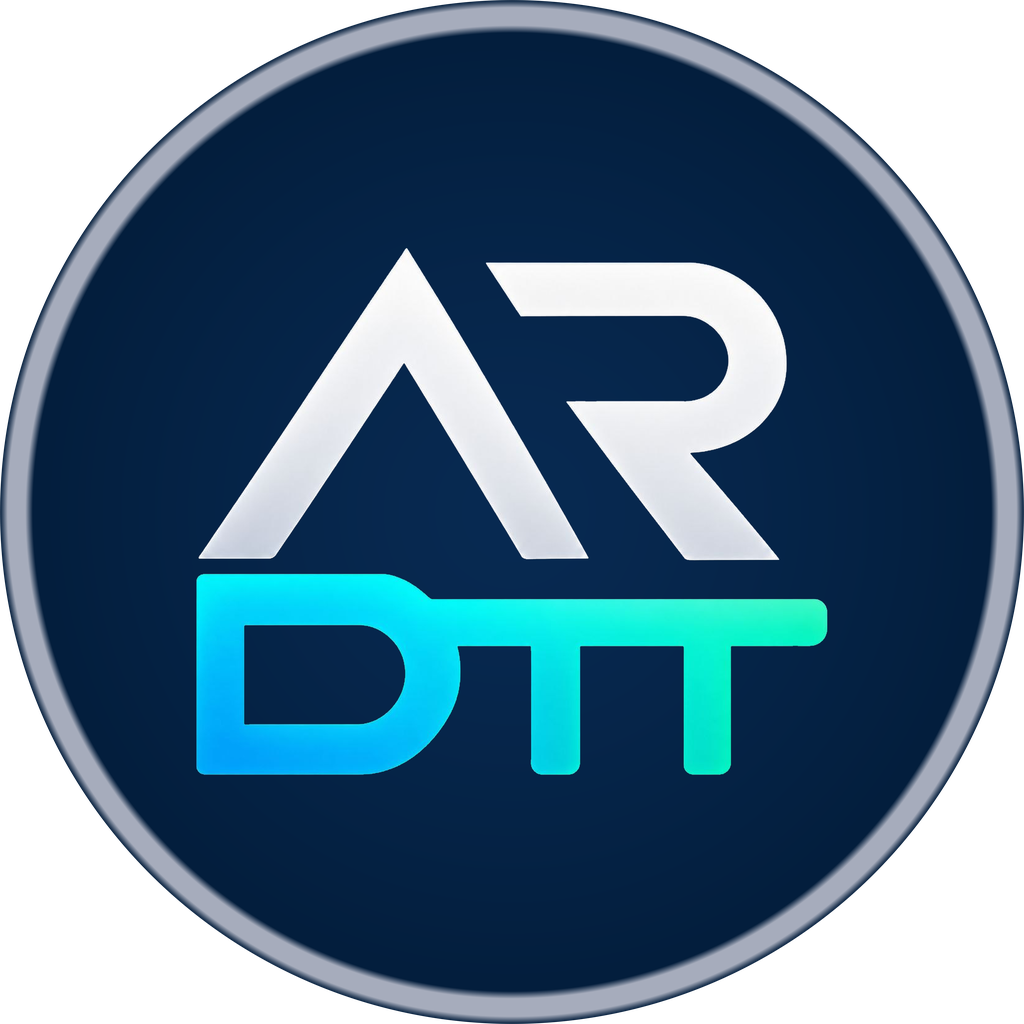
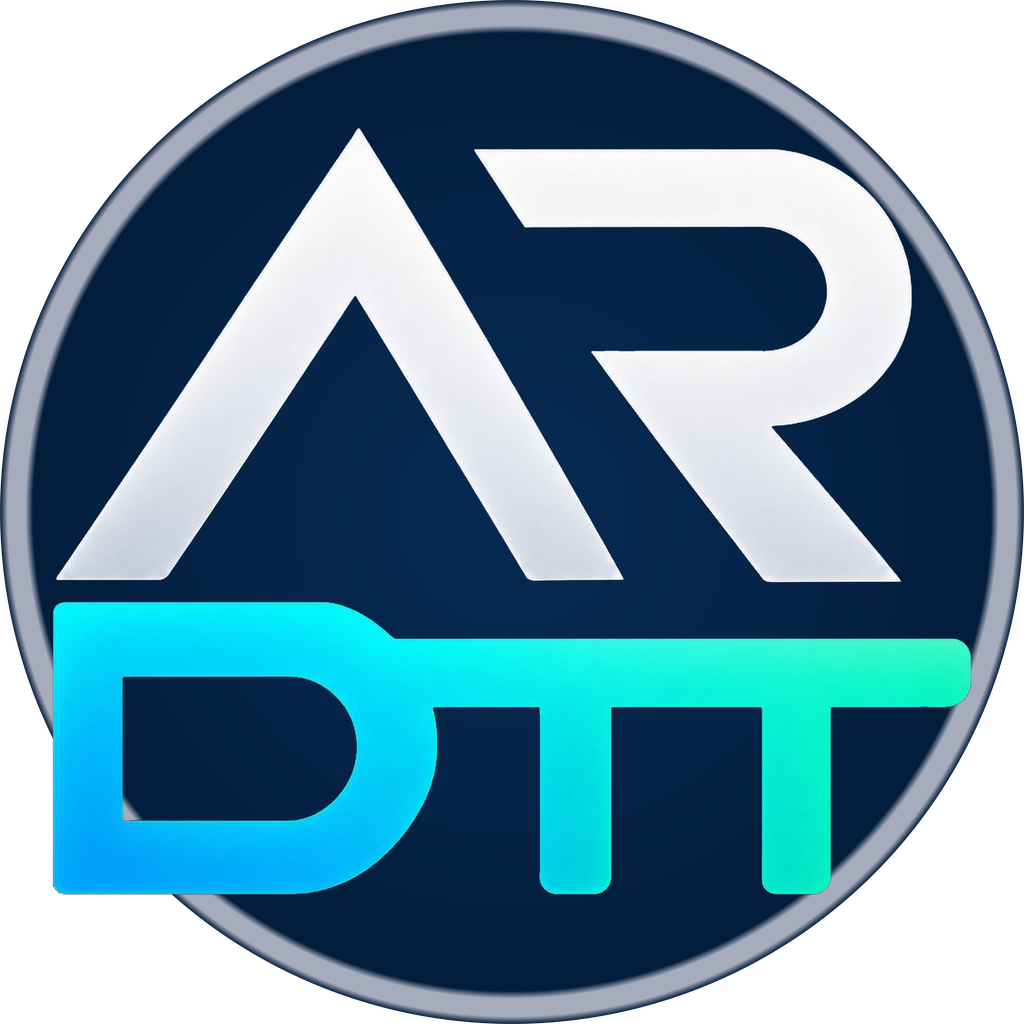
Scale AR/DTT almost to the adaptive mask edge.
The previous inset left a large navy field around the mark. Fill the 72dp
viewport for square and monochrome, and sit the round letters just inside
the silver rim.

diff --git a/scripts/generate-launcher-icons.py b/scripts/generate-launcher-icons.py
@@ -188,19 +188,17 @@ def plate_rgba_icon(master: Image.Image, size: int) -> Image.Image:
 # Navy disc: slightly lighter center, matching the master's radial field.
 ROUND_CENTER = (8, 42, 82)
 ROUND_RIM = (166, 172, 188)
-# Letter block as a fraction of the circle diameter. 0.66 matches the adaptive
-# foreground safe zone; wider than that clips AR/DTT corners on a circular mask.
-ROUND_LETTER_FRAC = 0.66
+# Letter block as a fraction of the circle diameter. ~0.96 sits almost on
+# the silver rim; a thin navy gap remains so DTT does not eat the ring.
+ROUND_LETTER_FRAC = 0.96
 ROUND_RIM_FRAC = 0.016
 # AdaptiveIconDrawable draws each 108dp layer at 1.5× bounds; the launcher
 # only shows the inner 72dp. A rim at the 108dp edge is cropped away.
 ADAPTIVE_VIEWPORT = 2.0 / 3.0
-# Square adaptive keeps letters-only: baking the silver squircle into the
-# 72dp viewport is clipped by the OEM mask into grey chords (the old round bug).
-# 0.82 of the viewport keeps DTT inside a typical squircle (n≈4).
-SQUARE_ADAPTIVE_LETTER_FRAC = 0.82
-# Themed icons reuse this layer for both masks; size it for a circle.
-MONO_ADAPTIVE_LETTER_FRAC = ROUND_LETTER_FRAC
+# Square / themed layers fill the 72dp viewport. The OEM mask provides the
+# shape; baking a silver plate into this layer clips into grey chords.
+SQUARE_ADAPTIVE_LETTER_FRAC = 1.0
+MONO_ADAPTIVE_LETTER_FRAC = 1.0
 
 
 def adaptive_safe_frac(viewport_content_frac: float) -> float:

diff --git a/CHANGELOG.md b/CHANGELOG.md
@@ -5,8 +5,8 @@
 ## 0.5.239
 
 - Круглый значок на устройстве: отдельный adaptive foreground (`ic_launcher_round_foreground`). На minSdk 28 лаунчер берёт XML, а не density-PNG — диск из 0.5.238 на круглой маске не показывался.
-- Квадратный adaptive — только буквы (форму даёт маска лаунчера); пластину со сквирклом туда не кладём, иначе рамка снова режется. Буквы вписаны в 72 dp, чтобы DTT не обрезало.
-- Монохром для темы — белый силуэт в mipmap 108 dp, без растягивания 256 px и серой каймы. Виджет по-прежнему показывает пластину `ic_logo_full`.
+- Квадратный adaptive — только буквы (форму даёт маска лаунчера); пластину со сквирклом туда не кладём, иначе рамка снова режется. Буквы почти до краёв 72 dp.
+- Монохром для темы — белый силуэт в mipmap 108 dp, без растягивания 256 px и серой каймы. Буквы почти до краёв круглой маски. Виджет по-прежнему показывает пластину `ic_logo_full`.
 
 # ARDTT v0.5.238
 
